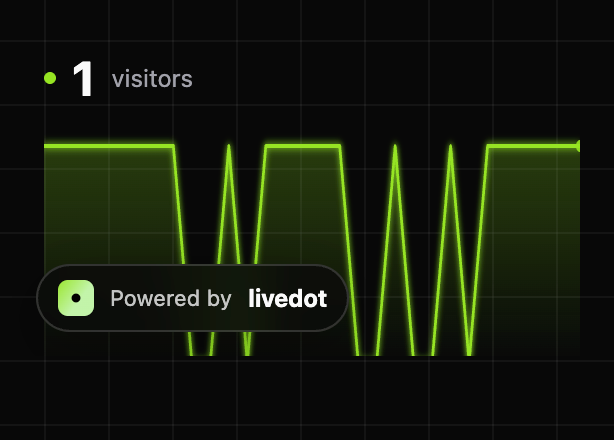
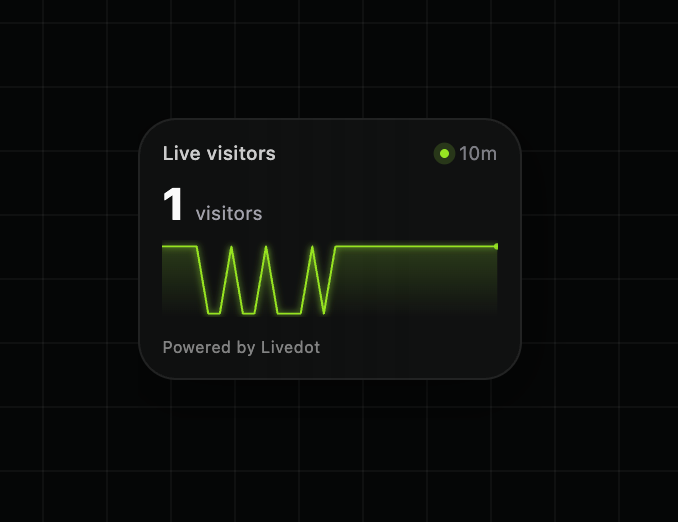
Improve widgets

diff --git a/apps/web/src/routes/embed/chart.tsx b/apps/web/src/routes/embed/chart.tsx
@@ -1,6 +1,5 @@
 import { createFileRoute } from "@tanstack/react-router";
 import { useWebSocket } from "@/hooks/useWebSocket";
-import BrandingBadge from "@/components/embed/BrandingBadge";
 import { aggregateHistoryPoints } from "@/lib/chart";
 import { useEmbedBranding } from "@/components/embed/useEmbedBranding";
 
@@ -12,13 +11,14 @@ export const Route = createFileRoute("/embed/chart")({
     bg: (search.bg as string) ?? "transparent",
     accent: (search.accent as string) ?? "#96E421",
     branding: (search.branding as string) ?? "",
+    scale: Number(search.scale ?? 0.9),
   }),
 });
 
-const W = 400;
-const H = 120;
-const PAD_TOP = 8;
-const PAD_BOT = 4;
+const W = 200;
+const H = 48;
+const PAD_TOP = 4;
+const PAD_BOT = 2;
 
 function buildPath(points: { count: number }[], close: boolean): string {
   if (points.length === 0) return "";
@@ -47,10 +47,11 @@ function buildPath(points: { count: number }[], close: boolean): string {
 }
 
 function EmbedChart() {
-  const { website, token, bg, accent, branding } = Route.useSearch();
-  const { count, connected, history } = useWebSocket(website || null, token || undefined);
+  const { website, token, bg, accent, branding, scale } = Route.useSearch();
+  const { count, connected, history } = useWebSocket(website || null, { token: token || undefined, recent: "10m" });
   const explicitBranding = branding === "1" || branding === "true";
   const showBranding = useEmbedBranding(website, token, explicitBranding);
+  const size = Number.isFinite(scale) ? Math.min(Math.max(scale, 0.6), 1.4) : 0.9;
 
   if (!website || !token) {
     return null;
@@ -63,35 +64,50 @@ function EmbedChart() {
   return (
     <div
       style={{
-        width: "100%",
-        height: "100vh",
-        background: bg,
-        display: "flex",
-        flexDirection: "column",
-        alignItems: "center",
-        justifyContent: "center",
+        width: "fit-content",
+        background: bg === "transparent" ? "transparent" : bg,
+        display: "inline-flex",
         fontFamily: "system-ui, -apple-system, sans-serif",
-        overflow: "hidden",
-        position: "relative",
       }}
     >
-      <div style={{ width: "100%", maxWidth: 600, padding: "0 16px" }}>
-        <div style={{ display: "flex", alignItems: "center", justifyContent: "space-between", marginBottom: 8 }}>
-          <div style={{ display: "flex", alignItems: "center", gap: 8 }}>
+      <div
+        style={{
+          width: 240 * size,
+          borderRadius: 24 * size,
+          border: "1px solid rgba(255,255,255,0.08)",
+          background: "rgba(255,255,255,0.04)",
+          backdropFilter: "blur(24px)",
+          boxShadow: "0 8px 32px rgba(0,0,0,0.4)",
+          overflow: "hidden",
+          padding: `${12 * size}px ${14 * size}px ${8 * size}px`,
+        }}
+      >
+        <div style={{ display: "flex", alignItems: "center", justifyContent: "space-between", marginBottom: 8 * size }}>
+          <div style={{ minWidth: 0 }}>
+            <p style={{ fontSize: 12 * size, color: "rgba(250,250,250,0.8)", fontWeight: 500, whiteSpace: "nowrap", overflow: "hidden", textOverflow: "ellipsis" }}>
+              Live visitors
+            </p>
+          </div>
+          <div style={{ display: "flex", alignItems: "center", gap: 6 * size, marginLeft: 8 * size }}>
             <span
               style={{
-                width: 6,
-                height: 6,
+                width: 6 * size,
+                height: 6 * size,
                 borderRadius: "50%",
                 background: connected ? accent : "#71717a",
+                boxShadow: connected ? `0 0 0 ${4 * size}px color-mix(in srgb, ${accent} 18%, transparent)` : "none",
               }}
             />
-            <span style={{ fontSize: 24, fontWeight: 700, color: "#fafafa" }}>{count}</span>
-            <span style={{ fontSize: 12, color: "#a1a1aa" }}>visitors</span>
+            <span style={{ fontSize: 12 * size, color: "rgba(161,161,170,0.75)" }}>10m</span>
           </div>
         </div>
 
-        <svg viewBox={`0 0 ${W} ${H}`} preserveAspectRatio="none" style={{ width: "100%", height: 120 }}>
+        <div style={{ display: "flex", alignItems: "baseline", gap: 8 * size, marginBottom: 8 * size }}>
+          <span style={{ fontSize: 28 * size, fontWeight: 750, color: "#fafafa", lineHeight: 1, letterSpacing: "-0.04em" }}>{count}</span>
+          <span style={{ fontSize: 12 * size, color: "#a1a1aa" }}>visitors</span>
+        </div>
+
+        <svg viewBox={`0 0 ${W} ${H}`} preserveAspectRatio="none" style={{ width: "100%", height: 48 * size }}>
           <defs>
             <linearGradient id="embed-area-fill" x1="0" y1="0" x2="0" y2="1">
               <stop offset="0%" stopColor={accent} stopOpacity="0.2" />
@@ -113,7 +129,7 @@ function EmbedChart() {
                 d={linePath}
                 fill="none"
                 stroke={accent}
-                strokeWidth="2"
+                strokeWidth={1.5 * size}
                 strokeLinejoin="round"
                 strokeLinecap="round"
                 filter="url(#embed-line-glow)"
@@ -124,15 +140,31 @@ function EmbedChart() {
                 const yRange = H - PAD_TOP - PAD_BOT;
                 const cx = W;
                 const cy = PAD_TOP + yRange - (last.count / max) * yRange;
-                return <circle cx={cx} cy={cy} r="3" fill={accent} opacity="0.9" />;
+                return <circle cx={cx} cy={cy} r={2.5 * size} fill={accent} opacity="0.9" />;
               })()}
             </>
           ) : (
-            <line x1="0" y1={H / 2} x2={W} y2={H / 2} stroke={accent} strokeOpacity="0.15" strokeWidth="1" strokeDasharray="4 4" />
+            <line x1="0" y1={H / 2} x2={W} y2={H / 2} stroke={accent} strokeOpacity="0.15" strokeWidth={1 * size} strokeDasharray="4 4" />
           )}
         </svg>
+        {showBranding && (
+          <a
+            href="https://livedot.dev"
+            target="_blank"
+            rel="noreferrer"
+            style={{
+              display: "inline-block",
+              marginTop: 6 * size,
+              fontSize: 10 * size,
+              color: "rgba(255,255,255,0.48)",
+              textDecoration: "none",
+              letterSpacing: "0.01em",
+            }}
+          >
+            Powered by Livedot
+          </a>
+        )}
       </div>
-      {showBranding && <BrandingBadge />}
     </div>
   );
 }

diff --git a/apps/web/src/components/websites/ShareModal.tsx b/apps/web/src/components/websites/ShareModal.tsx
@@ -49,7 +49,7 @@ export default function ShareModal({ website, onClose, onUpdated }: Props) {
     : "";
 
   const chartEmbed = shareToken
-    ? `<iframe src="${origin}/embed/chart?website=${website?.id}&token=${shareToken}${brandingParam}" width="100%" height="200" frameborder="0" style="border:0;border-radius:12px;"></iframe>`
+    ? `<iframe src="${origin}/embed/chart?website=${website?.id}&token=${shareToken}&scale=0.9${brandingParam}" width="260" height="128" frameborder="0" style="border:0;overflow:hidden;"></iframe>`
     : "";
 
   const liveEmbed = shareToken
@@ -68,8 +68,8 @@ export default function ShareModal({ website, onClose, onUpdated }: Props) {
       title: "Chart Widget",
       description: "A compact traffic trend chart with the live count.",
       snippet: chartEmbed,
-      height: "200px",
-      width: "100%",
+      height: "128px",
+      width: "260px",
     },
     live: {
       title: "Live Count Widget",
@@ -217,6 +217,11 @@ export default function ShareModal({ website, onClose, onUpdated }: Props) {
                       Learn more
                     </a>
                   </p>
+                  {activeTab === "chart" && (
+                    <p className="text-[10px] text-muted">
+                      Chart widget supports <code className="text-foreground/60">scale</code> too, for example <code className="text-foreground/60">scale=0.8</code>.
+                    </p>
+                  )}
                 </div>
               )}
             </Modal.Body>
